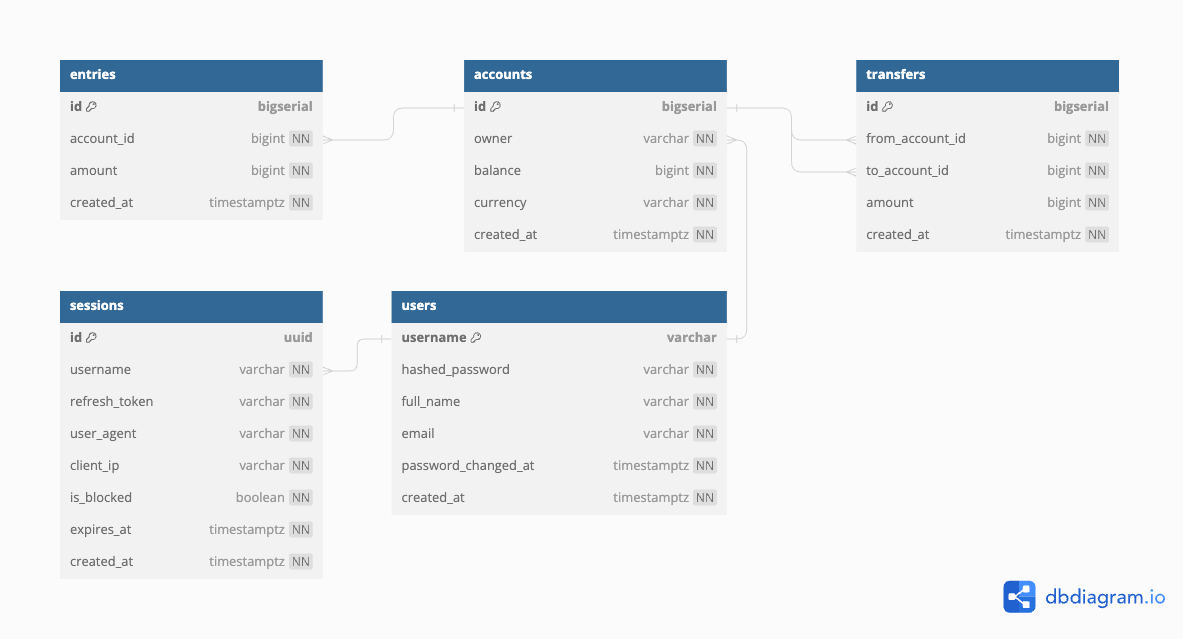
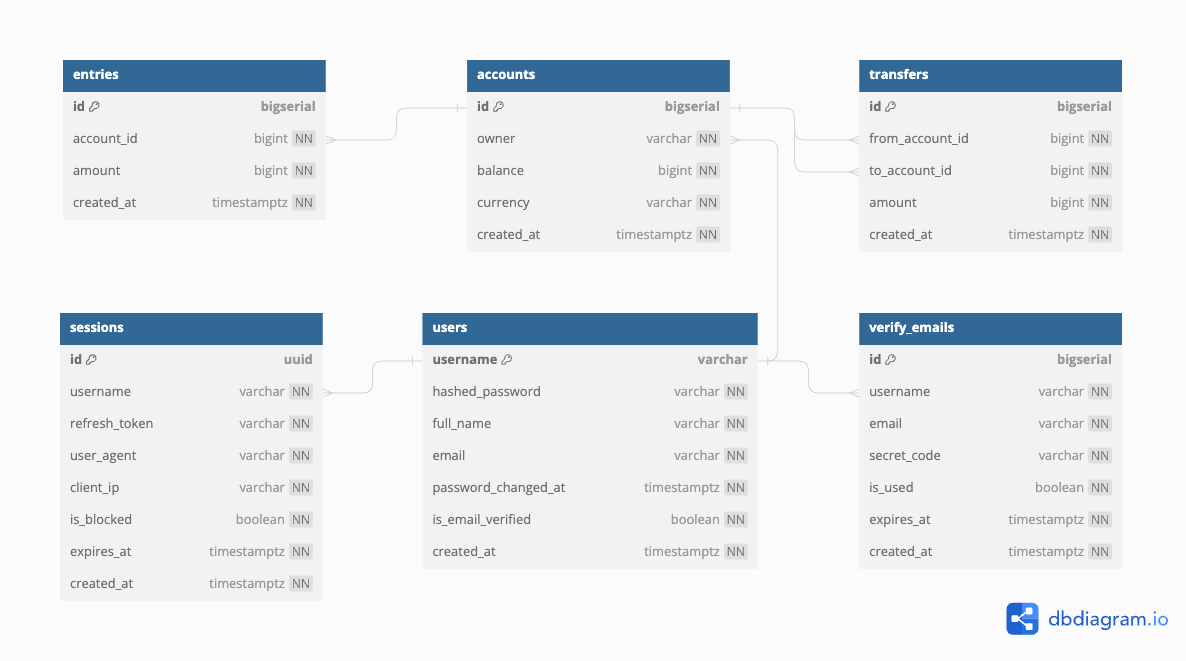
feat(section-5): send email verification from Asynq task

diff --git a/db/sqlc/user.sql.go b/db/sqlc/user.sql.go
@@ -18,7 +18,7 @@ INSERT INTO users (
   email
 ) VALUES (
   $1, $2, $3, $4
-) RETURNING username, hashed_password, full_name, email, password_changed_at, created_at
+) RETURNING username, hashed_password, full_name, email, password_changed_at, created_at, is_email_verified
 `
 
 type CreateUserParams struct {
@@ -43,12 +43,13 @@ func (q *Queries) CreateUser(ctx context.Context, arg CreateUserParams) (User, e
 		&i.Email,
 		&i.PasswordChangedAt,
 		&i.CreatedAt,
+		&i.IsEmailVerified,
 	)
 	return i, err
 }
 
 const getUser = `-- name: GetUser :one
-SELECT username, hashed_password, full_name, email, password_changed_at, created_at FROM users
+SELECT username, hashed_password, full_name, email, password_changed_at, created_at, is_email_verified FROM users
 WHERE username = $1 LIMIT 1
 `
 
@@ -62,6 +63,7 @@ func (q *Queries) GetUser(ctx context.Context, username string) (User, error) {
 		&i.Email,
 		&i.PasswordChangedAt,
 		&i.CreatedAt,
+		&i.IsEmailVerified,
 	)
 	return i, err
 }
@@ -74,7 +76,7 @@ SET
   full_name = COALESCE($3, full_name),
   email = COALESCE($4, email)
 WHERE username = $5
-RETURNING username, hashed_password, full_name, email, password_changed_at, created_at
+RETURNING username, hashed_password, full_name, email, password_changed_at, created_at, is_email_verified
 `
 
 type UpdateUserParams struct {
@@ -101,6 +103,7 @@ func (q *Queries) UpdateUser(ctx context.Context, arg UpdateUserParams) (User, e
 		&i.Email,
 		&i.PasswordChangedAt,
 		&i.CreatedAt,
+		&i.IsEmailVerified,
 	)
 	return i, err
 }

diff --git a/main.go b/main.go
@@ -11,6 +11,7 @@ import (
 	db "github.com/filipe1309/ud-bmc-simplebank/db/sqlc"
 	_ "github.com/filipe1309/ud-bmc-simplebank/doc/statik"
 	"github.com/filipe1309/ud-bmc-simplebank/gapi"
+	"github.com/filipe1309/ud-bmc-simplebank/mail"
 	"github.com/filipe1309/ud-bmc-simplebank/pb"
 	"github.com/filipe1309/ud-bmc-simplebank/util"
 	"github.com/filipe1309/ud-bmc-simplebank/worker"
@@ -50,7 +51,7 @@ func main() {
 	redisOpt := asynq.RedisClientOpt{Addr: config.RedisAddress}
 	taskDistributor := worker.NewRedisTaskDistributer(redisOpt)
 	
-	go runTaskProcessor(redisOpt, store)
+	go runTaskProcessor(config, redisOpt, store)
 	go runGatewayServer(config, store, taskDistributor)
 	runGrpcServer(config, store, taskDistributor)
 	// runHttpServer(config, store)
@@ -69,8 +70,9 @@ func runDBMigration(migrationURL string, dbSource string) {
 	log.Info().Msg("db migrated successfully")
 }
 
-func runTaskProcessor(redisOpt asynq.RedisClientOpt, store db.Store) {
-	taskProcessor := worker.NewRedisTaskProcessor(redisOpt, store)
+func runTaskProcessor(config util.Config, redisOpt asynq.RedisClientOpt, store db.Store) {
+	mailer := mail.NewMailTrapSender(config.EmailSenderName, config.EmailSenderUserName, config.EmailSenderAddress, config.EmailSenderPassword)
+	taskProcessor := worker.NewRedisTaskProcessor(redisOpt, store, mailer)
 	log.Info().Msg("start task processor")
 	err := taskProcessor.Start()
 	if err != nil {

diff --git a/worker/task_send_verify_email.go b/worker/task_send_verify_email.go
@@ -5,6 +5,8 @@ import (
 	"encoding/json"
 	"fmt"
 
+	db "github.com/filipe1309/ud-bmc-simplebank/db/sqlc"
+	"github.com/filipe1309/ud-bmc-simplebank/util"
 	"github.com/hibiken/asynq"
 	"github.com/rs/zerolog/log"
 )
@@ -55,6 +57,27 @@ func (processor *RedisTaskProcessor) ProcessTaskSendVerifyEmail(ctx context.Cont
 		// 	return fmt.Errorf("user doesn't exist: %w", asynq.SkipRetry)
 		// }
 		return fmt.Errorf("failed to get user: %w", err)
+	}
+
+	verifyEmail, err := processor.store.CreateVerifyEmail(ctx, db.CreateVerifyEmailParams{
+		Username:   user.Username,
+		Email:      user.Email,
+		SecretCode: util.RandomString(32),
+	})
+	if err != nil {
+		return fmt.Errorf("failed to create verify email: %w", err)
+	}
+
+	subject := "Welcome to Simple Bank"
+	verifyURL := fmt.Sprintf("http://simple-bank.org/verify_email?id=%d&secret_code=%s", verifyEmail.ID, verifyEmail.SecretCode)
+	content := fmt.Sprintf(`Hello %s<br/>
+	Thank you for registering with us!<br/>
+	Please <a href="%s">click here</a> to verify your email address.<br/>`,
+		user.Username, verifyURL)
+	to := []string{user.Email}
+	err = processor.mailer.SendEmail(subject, content, to, nil, nil, nil)
+	if err != nil {
+		return fmt.Errorf("failed to send verify email: %w", err)
 	}
 
 	log.

diff --git a/db/mock/store.go b/db/mock/store.go
@@ -146,6 +146,21 @@ func (mr *MockStoreMockRecorder) CreateUserTx(arg0, arg1 any) *gomock.Call {
 	return mr.mock.ctrl.RecordCallWithMethodType(mr.mock, "CreateUserTx", reflect.TypeOf((*MockStore)(nil).CreateUserTx), arg0, arg1)
 }
 
+// CreateVerifyEmail mocks base method.
+func (m *MockStore) CreateVerifyEmail(arg0 context.Context, arg1 db.CreateVerifyEmailParams) (db.VerifyEmail, error) {
+	m.ctrl.T.Helper()
+	ret := m.ctrl.Call(m, "CreateVerifyEmail", arg0, arg1)
+	ret0, _ := ret[0].(db.VerifyEmail)
+	ret1, _ := ret[1].(error)
+	return ret0, ret1
+}
+
+// CreateVerifyEmail indicates an expected call of CreateVerifyEmail.
+func (mr *MockStoreMockRecorder) CreateVerifyEmail(arg0, arg1 any) *gomock.Call {
+	mr.mock.ctrl.T.Helper()
+	return mr.mock.ctrl.RecordCallWithMethodType(mr.mock, "CreateVerifyEmail", reflect.TypeOf((*MockStore)(nil).CreateVerifyEmail), arg0, arg1)
+}
+
 // DeleteAccount mocks base method.
 func (m *MockStore) DeleteAccount(arg0 context.Context, arg1 int64) error {
 	m.ctrl.T.Helper()

diff --git a/worker/processor.go b/worker/processor.go
@@ -4,6 +4,7 @@ import (
 	"context"
 
 	db "github.com/filipe1309/ud-bmc-simplebank/db/sqlc"
+	"github.com/filipe1309/ud-bmc-simplebank/mail"
 	"github.com/hibiken/asynq"
 	"github.com/rs/zerolog/log"
 )
@@ -21,9 +22,10 @@ type TaskProcessor interface {
 type RedisTaskProcessor struct {
 	server *asynq.Server
 	store  db.Store
+	mailer mail.EmailSender
 }
 
-func NewRedisTaskProcessor(redisOpt asynq.RedisClientOpt, store db.Store) TaskProcessor {
+func NewRedisTaskProcessor(redisOpt asynq.RedisClientOpt, store db.Store, mailer mail.EmailSender) TaskProcessor {
 	server := asynq.NewServer(redisOpt, asynq.Config{
 		Queues: map[string]int{
 			QueuesCritical: 10,
@@ -39,7 +41,7 @@ func NewRedisTaskProcessor(redisOpt asynq.RedisClientOpt, store db.Store) TaskPr
 		Logger: NewLogger(),
 	})
 
-	return &RedisTaskProcessor{server: server, store: store}
+	return &RedisTaskProcessor{server: server, store: store, mailer: mailer}
 }
 
 func (processor *RedisTaskProcessor) Start() error {

diff --git a/db/sqlc/verify_email.sql.go b/db/sqlc/verify_email.sql.go
@@ -1,0 +1,37 @@
+// Code generated by sqlc. DO NOT EDIT.
+// versions:
+//   sqlc v1.26.0
+// source: verify_email.sql
+
+package db
+
+import (
+	"context"
+)
+
+const createVerifyEmail = `-- name: CreateVerifyEmail :one
+INSERT INTO verify_emails (username, email, secret_code)
+VALUES ($1, $2, $3)
+RETURNING id, username, email, secret_code, is_used, expires_at, created_at
+`
+
+type CreateVerifyEmailParams struct {
+	Username   string `json:"username"`
+	Email      string `json:"email"`
+	SecretCode string `json:"secret_code"`
+}
+
+func (q *Queries) CreateVerifyEmail(ctx context.Context, arg CreateVerifyEmailParams) (VerifyEmail, error) {
+	row := q.db.QueryRowContext(ctx, createVerifyEmail, arg.Username, arg.Email, arg.SecretCode)
+	var i VerifyEmail
+	err := row.Scan(
+		&i.ID,
+		&i.Username,
+		&i.Email,
+		&i.SecretCode,
+		&i.IsUsed,
+		&i.ExpiresAt,
+		&i.CreatedAt,
+	)
+	return i, err
+}

diff --git a/db/sqlc/models.go b/db/sqlc/models.go
@@ -53,4 +53,15 @@ type User struct {
 	Email             string    `json:"email"`
 	PasswordChangedAt time.Time `json:"password_changed_at"`
 	CreatedAt         time.Time `json:"created_at"`
+	IsEmailVerified   bool      `json:"is_email_verified"`
+}
+
+type VerifyEmail struct {
+	ID         int64     `json:"id"`
+	Username   string    `json:"username"`
+	Email      string    `json:"email"`
+	SecretCode string    `json:"secret_code"`
+	IsUsed     bool      `json:"is_used"`
+	ExpiresAt  time.Time `json:"expires_at"`
+	CreatedAt  time.Time `json:"created_at"`
 }

diff --git a/db/sqlc/querier.go b/db/sqlc/querier.go
@@ -17,6 +17,7 @@ type Querier interface {
 	CreateSession(ctx context.Context, arg CreateSessionParams) (Session, error)
 	CreateTransfer(ctx context.Context, arg CreateTransferParams) (Transfer, error)
 	CreateUser(ctx context.Context, arg CreateUserParams) (User, error)
+	CreateVerifyEmail(ctx context.Context, arg CreateVerifyEmailParams) (VerifyEmail, error)
 	DeleteAccount(ctx context.Context, id int64) error
 	GetAccount(ctx context.Context, id int64) (Account, error)
 	GetAccountForUpdate(ctx context.Context, id int64) (Account, error)

diff --git a/README.md b/README.md
@@ -226,11 +226,11 @@ make test
 
 ## :clap: Acknowledgments
 
+- [ShubcoGen Template™](https://github.com/filipe1309/shubcogen-template)
 - [Simple Bank Repo](https://github.com/techschool/simplebank)
 - [Backend Master Class [Golang + Postgres + Kubernetes + gRPC]](https://www.udemy.com/course/backend-master-class-golang-postgresql-kubernetes/)
 - [Simple Bank DBDocs](https://dbdocs.io/techschool.guru/simple_bank)
 - [TablePlus](https://tableplus.com/)
-- [ShubcoGen Template™](https://github.com/filipe1309/shubcogen-template)
 - [Golang Migrate CLI Repo](https://github.com/golang-migrate/migrate/tree/master/cmd/migrate)
 - [DBML](https://dbml.dbdiagram.io/docs/)
 - [Gorm](https://gorm.io/)
